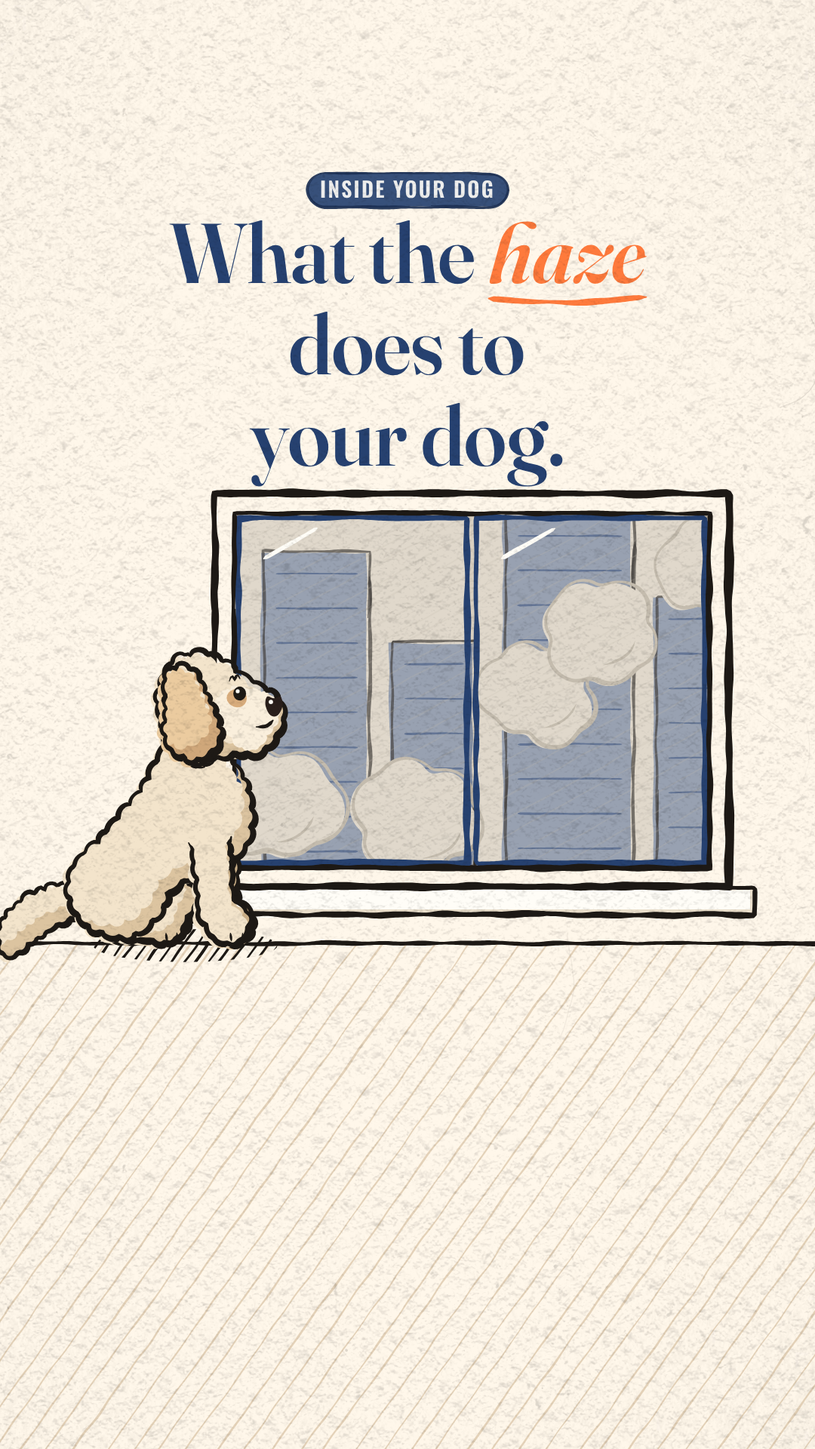
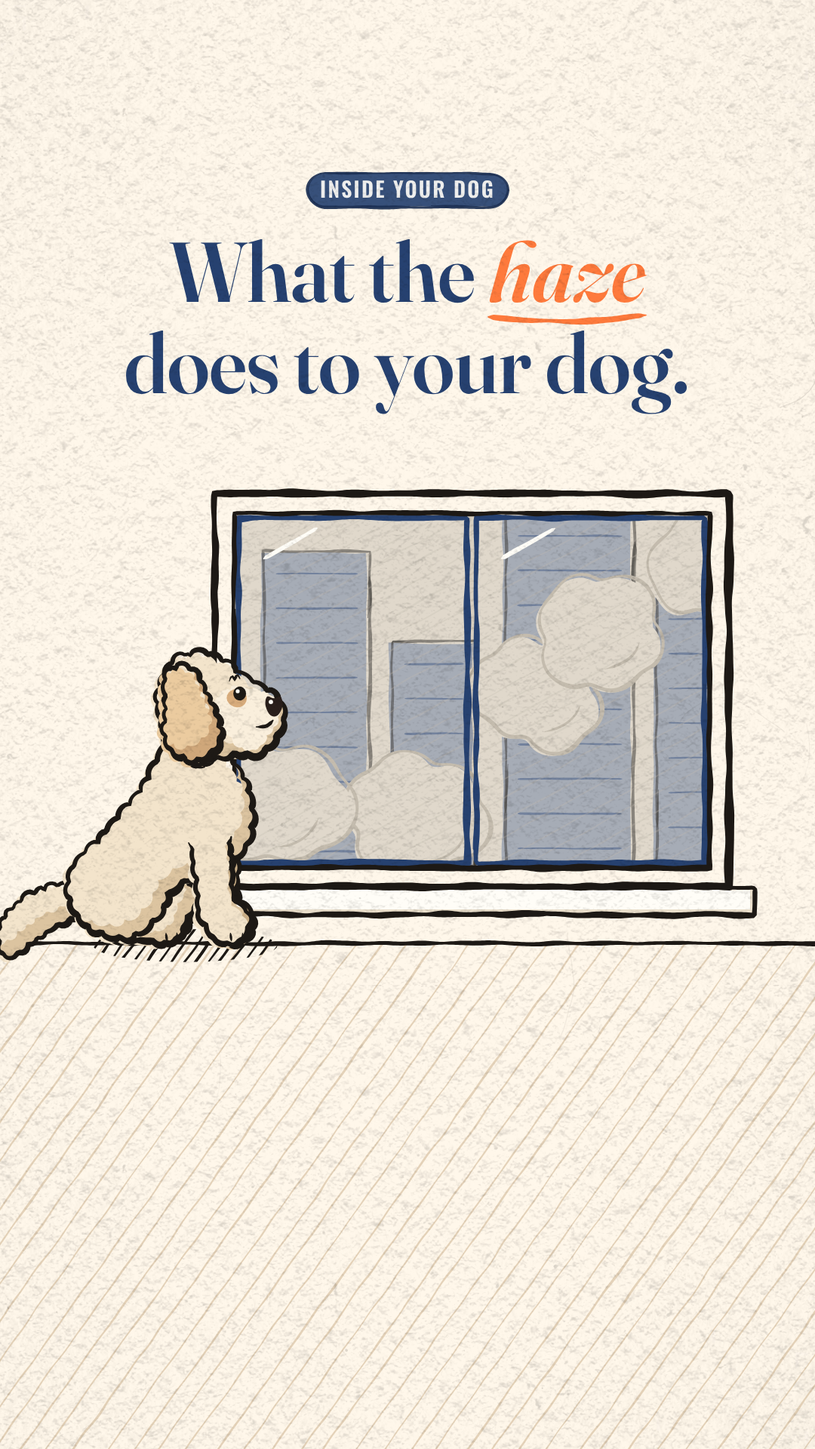
Haze film v2 delivered: render, independent review, one revision (sync, hero, pouch, safe zones), spec, log
Claude-Session: https://claude.ai/code/session_01E45RLzZSvX6312XgFghGSz

diff --git a/films/2026-10-16-haze-and-your-dog/js/scene.js b/films/2026-10-16-haze-and-your-dog/js/scene.js
@@ -42,7 +42,7 @@ const IW = 0.25;
 const IRISES = [[6.5, 360, 930], [14.0, 540, 1040]];
 const XEND = 50.0, XD = 0.2;    // a hard-edged paper wipe from the question card to the end card
 const HERO = MK('shut');        // the window slams shut (contact); impact frames follow
-const POUCH = 44.65;            // the pouch lands
+const POUCH = 44.80;            // the pouch lands (3 falling frames after the whip, so the drop is seen)
 const endOf = (i) => SEND[i] - (CUTS[i + 1] ?? 0) - 0.02; // last moment of a section before its cut
 
 // ------------------------------------------------------------------ exposure sheet: on 2s, fast action on 1s, holds on 3s
@@ -83,7 +83,7 @@ function sticker(c, txt, x, y, tq, t0, t1, v, o = {}) {
 }
 
 // the hook headline: frame 0 is the cover. "What the haze does to your dog."
-const HEAD = [[['What the ', 0], ['haze', 1]], [['does to', 0]], [['your dog.', 0]]];
+const HEAD = [[['What the ', 0], ['haze', 1]], [['does to your dog.', 0]]];
 function headline(c, sc, v) {
   if (sc <= 0) return;
   c.save(); c.translate(540, 470); c.scale(sc, sc); c.translate(-540, -470); c.textBaseline = 'alphabetic';
@@ -92,7 +92,7 @@ function headline(c, sc, v) {
   const widthOf = (L) => L.reduce((a, [s, it]) => { c.font = fontOf(it); return a + c.measureText(s).width; }, 0);
   const wmax = Math.max(...HEAD.map(widthOf)); if (wmax > 840) size = Math.floor(size * 840 / wmax);
   HEAD.forEach((L, li) => {
-    const y = 375 + li * size * 1.08, wl = widthOf(L); let x = 540 - wl / 2; c.textAlign = 'left';
+    const y = 400 + li * size * 1.08, wl = widthOf(L); let x = 540 - wl / 2; c.textAlign = 'left';
     for (const [s, it] of L) {
       c.font = fontOf(it); c.fillStyle = it ? PAL.orange : PAL.navy; const w = c.measureText(s).width;
       c.fillText(s, x + (li === 1 ? (v % 2 ? 1 : -1) : 0), y + (it ? (v % 2 ? 1 : 0) : 0));
@@ -121,9 +121,8 @@ function overlays(c, tn, tq, v) {
   if (tq < XEND) CA.pill(c, 'INSIDE YOUR DOG', 540, 252, { size: 28, fill: onNavy ? PAL.hi : PAL.navy, color: onNavy ? PAL.navy : PAL.hi, edge: PAL.navyDeep, alpha: 0.92, seed: 11, shadow: false }, v);
   TL.sections.forEach(([a, b], i) => {
     const txt = SECT[i]; if (!txt) return;
-    const t0 = a + 0.15, t1 = b - (CUTS[i + 1] ?? 0) - 0.02, navy = i === 2;
+    const t0 = a + 0.15, t1 = i === 6 ? warp(HERO - 0.3, 1, 0) : b - (CUTS[i + 1] ?? 0) - 0.02, navy = i === 2; // the slam owns the frame from there
     if (tn < t0 || tn >= t1) return;
-    if (i === 6 && toOld(tn) >= HERO - 0.3 && toOld(tn) < HERO + 0.6) return; // the slam owns the frame
     CA.pill(c, txt, 540, 330, { size: 40, fill: navy ? RAB : PAL.orange, color: navy ? PAL.navy : PAL.hi, scale: popK(tn, t0) * popOut(tn, t1), seed: 21, rot: -0.02 }, v);
   });
   headline(c, headlineScale(tq), v);
@@ -152,7 +151,7 @@ function popAt(c, x, y, sc, fn) { if (sc <= 0) return; c.save(); c.translate(x, 
 function shotWindow(c, t, f, D) {
   const v = bv(D), tq = D.fq / FPS;
   stage(c, v, tq, 0, 6.5, { dz: 0.07, cx: 560, cy: 960 });
-  const fog = 0.55 + 0.45 * E.io2(inv(0.5, 5.5, tq));
+  const fog = 0.8 + 0.2 * E.io2(inv(0.5, 5.5, tq));
   CA.windowOut(c, tq, v, fog);
   CA.windowFrame(c, v, 0);
   const turn = E.io2(inv(MK('very') - 0.3, MK('very') + 0.1, tq)); // she looks back at you on "very unhealthy"
@@ -184,22 +183,22 @@ function shotInside(c, t, f, D) {
       const u = Math.min(ph * 2.2, 1), x = lerp(-60, 180 + (k % 4) * 22, E.out2(u)), y = 570 + S.off * 0.8;
       CA.speck(c, x, y, 26, 900 + k, v); return;
     }
-    if (tq < t0) { const x = lerp(-60, 140, ph), y = 570 + S.off * 0.6; CA.speck(c, x, y, 7, 900 + k, v); return; }
+    if (tq < t0) { const x = lerp(-60, 200, ph), y = 565 + S.off * 0.4; CA.speck(c, x, y, 11, 900 + k, v); return; }
     // tiny ones rush down the airway on 1s, a smeared streak behind each, then scatter into a lung
     const u = (tq - t0) * 0.55 + ph * 0.6, along = u % 1.3;
     if (along < 1) {
-      const P = at(along * TT), x = P.x + P.nx * S.off * 0.6, y = P.y + P.ny * S.off * 0.6, L = 50;
+      const P = at(along * TT), x = P.x + P.nx * S.off * 0.6, y = P.y + P.ny * S.off * 0.6, L = 70;
       inkStroke(c, [[x - P.tx * L, y - P.ty * L], [x, y]], { seed: 940 + k + f, w: 6, t0: 20, t1: 4, min: 0.1, amp: 0.6, heavy: 0, color: PAL.ink });
-      CA.speck(c, x, y, 7, 900 + k, v);
+      CA.speck(c, x, y, 11, 900 + k, v);
     } else {
       const w = (along - 1) / 0.3, lx = 540 + S.side * (120 + 90 * hs(k, 2)), ly = 1000 + 140 * hs(k, 3);
-      CA.speck(c, lerp(540, lx, E.out2(w)), lerp(880, ly, E.out2(w)), 7, 900 + k, v);
+      CA.speck(c, lerp(540, lx, E.out2(w)), lerp(880, ly, E.out2(w)), 11, 900 + k, v);
     }
   });
   c.restore();
   // labels: clear of the airway, above y 1250
-  sticker(c, 'BIG BITS: STUCK IN THE NOSE', 740, 430, tq, MK('nose') - 0.05, MK('eyes') - 0.15, v, { size: 26, fill: PAL.hi, color: PAL.navy, rot: -0.03, seed: 4101 });
-  sticker(c, 'TINY BITS: DEEP IN THE LUNGS', 740, 520, tq, MK('lungs'), MK('eyes') - 0.15, v, { size: 26, rot: 0.03, seed: 4102 });
+  sticker(c, 'BIG BITS: STUCK IN THE NOSE', 640, 400, tq, MK('nose') - 0.05, MK('eyes') - 0.15, v, { size: 32, fill: PAL.hi, color: PAL.navy, rot: -0.03, seed: 4101 });
+  sticker(c, 'TINY BITS: DEEP IN THE LUNGS', 640, 470, tq, MK('lungs'), MK('eyes') - 0.15, v, { size: 32, rot: 0.03, seed: 4102 });
   if (tq >= MK('tiny') && tq < MK('nose') - 0.05) sticker(c, 'PM2.5', 760, 470, tq, MK('tiny'), MK('nose') - 0.05, v, { size: 46, rot: -0.04, seed: 4103 });
   sticker(c, 'EYES', 800, 440, tq, MK('eyes'), endOf(2), v, { size: 40, rot: -0.04, seed: 4104 });
   sticker(c, 'NOSE', 830, 540, tq, MK('nose2'), endOf(2), v, { size: 40, rot: 0.04, seed: 4105 });
@@ -234,7 +233,9 @@ function shotSigns(c, t, f, D) {
 function shotRisk(c, t, f, D) {
   const v = bv(D), tq = D.fq / FPS, end = endOf(4);
   stage(c, v, tq, 22.0, end, { dz: 0.06 });
-  drawMiya(c, pose('sit', { head: { pitch: -8, yaw: 30, roll: -6 }, face: { eyes: 'open', mouth: 'closed', brow: 0.2 } }), { x: 260, y: GROUND, s: 1.35, view: 30, v, seed: 3300, accent: ACC });
+  const look = ['flat', 'older', 'heart', 'most'].filter((m) => tq >= MK(m) - 0.05).length; // she turns to each card as it lands
+  const HP = [[-8, 30, -6], [-14, 50, 4], [-4, 60, -8], [-16, 45, 6], [-6, 70, 0]][look];
+  drawMiya(c, pose('sit', { head: { pitch: HP[0], yaw: HP[1], roll: HP[2] }, face: { eyes: 'open', mouth: 'closed', brow: look >= 4 ? -0.4 : 0.2 }, ears: { swing: D.id % 2 ? 4 : -4 } }), { x: 260, y: GROUND, s: 1.35, view: 30, v, seed: 3300, accent: ACC });
   c.restore();
   sticker(c, 'FLAT-FACED BREEDS', 700, 520, tq, MK('flat'), end, v, { size: 36, fill: PAL.hi, color: PAL.navy, rot: -0.04, seed: 4301 });
   sticker(c, 'OLDER DOGS', 740, 640, tq, MK('older'), end, v, { size: 36, fill: PAL.hi, color: PAL.navy, rot: 0.04, seed: 4302 });
@@ -262,9 +263,9 @@ function shotBig(c, t, f, D) {
   const after = D.fn >= FF(HERO), k0 = D.fn - FF(HERO);
   const shake = tq >= HERO && tq < HERO + 0.4 ? 9 * Math.exp(-(tq - HERO) / 0.12) : 0;
   drawPaper(c, W, H);
-  c.save(); cam(c, 540 + (hs(f, 1) - 0.5) * 2 * shake, 960 + (hs(f, 2) - 0.5) * 2 * shake, 1.0 + 0.05 * inv(31.0, end, tq) + (after ? 0.06 * E.out3(clamp((tq - HERO) / 0.3)) : 0));
+  c.save(); cam(c, 620 + (hs(f, 1) - 0.5) * 2 * shake, 960 + (hs(f, 2) - 0.5) * 2 * shake, 1.0 + 0.05 * inv(31.0, end, tq) + (after ? 0.06 * E.out3(clamp((tq - HERO) / 0.3)) : 0));
   floor(c, v);
-  CA.windowOut(c, tq + 20, v, after ? 1 - 0.3 * clamp((tq - HERO) / 1.5) : 1);
+  CA.windowOut(c, tq + 20, v, 1); // the haze outside doesn't change; the room clears
   // the slide: open until just before the word, then 2 frames on 1s, the middle one smeared
   let open = 1, smear = 1;
   if (k0 >= -2 && k0 < 0) { open = k0 === -2 ? 0.55 : 0.12; smear = k0 === -2 ? 2.4 : 1.4; } else if (after) open = 0;
@@ -272,25 +273,29 @@ function shotBig(c, t, f, D) {
   if (k0 >= 0 && k0 < 6) FX.speedLinesRadial(c, CA.WIN.x1 - 10, 915, 40, 160, 8, 3500 + D.fn, 6, 1, PAL.ink); // contact ticks at the frame edge
   // haze wisps drift in through the gap; after the slam they break up and are gone
   WISPS.forEach((S, k) => {
-    const ph = ((tq - 31) * 0.25 + S.d) % 1, x = lerp(860, 480, ph), y = S.y - 60 * ph;
+    const ph = ((tq - 31) * 0.25 + S.d) % 1, x = lerp(900, 120, ph), y = 800 + k * 70 + 40 * ph; // in through the gap, over Miya
     if (!after) CA.wisp(c, x, y, S.r * (0.7 + 0.3 * ph), 3510 + k * 7, v, 0);
     else { const st = 1 + Math.floor((tq - HERO) / 0.18); if (st < 4) CA.wisp(c, x, y, S.r, 3510 + k * 7, v, st); }
   });
+  // a flat hatched haze veil over the room: there while the window is open, stepping away on 3s after the slam
+  const veil = !after ? 0.34 : [0.34, 0.18, 0.07, 0][Math.min(3, Math.floor((tq - HERO) / 0.17))];
+  if (veil > 0) { c.save(); c.globalAlpha = veil; c.fillStyle = CA.HAZE; c.fillRect(-200, 0, W + 400, GROUND); G.hatch(c, [[-200, 0], [W + 200, 0], [W + 200, GROUND], [-200, GROUND]], { seed: 3540 + v, gap: 26, ang: -0.5, w: 2, amp: 1.2, color: CA.HAZE_SH, cx: 540, cy: 700 }); c.restore(); }
   const on = E.io2(inv(MK('aircon') - 0.1, MK('aircon') + 0.3, tq));
-  CA.aircon(c, 230, 520, 0.9, 3550, v, on, tq);
-  if (!after) drawMiya(c, pose('lie', { head: { pitch: -10, yaw: 30, roll: 0 }, face: { eyes: 'squint', mouth: 'closed', brow: -0.5 } }), { x: 240, y: GROUND, s: 1.3, view: 25, v, seed: 3560, accent: ACC });
-  else drawMiya(c, pose('wag', { tail: { a0: 92 + (D.id % 2 ? 24 : -24), curl: -32 } }), { x: 230, y: GROUND, s: 1.3, view: 25, v, seed: 3570, accent: ACC });
-  if (after && tq < HERO + 0.55) { const u = inv(HERO, HERO + 0.55, tq); FX.drawStarburst(c, CA.WIN.x1 - 30, 915, 200 * (0.6 + 0.4 * u), 3580 + f, 0.3, [RAB, PAL.hi, PAL.orange], { n: 12, w: 6 }); }
-  if (after && tq >= MK('purifier')) for (let i = 0; i < 3; i++) FX.drawTwinkle(c, [420, 520, 380][i], [600, 700, 820][i], 14 + 4 * Math.sin(tq * 4 + i), 3590 + i + v, { fill: i === 1 ? PAL.orange : PAL.hi });
+  CA.aircon(c, 300, 520, 0.9, 3550, v, on, tq);
+  if (!after) drawMiya(c, pose('lie', { head: { pitch: -10, yaw: 30, roll: 0 }, face: { eyes: 'squint', mouth: 'closed', brow: -0.5 } }), { x: 300, y: GROUND, s: 1.3, view: 25, v, seed: 3560, accent: ACC });
+  else drawMiya(c, pose('wag', { tail: { a0: 92 + (D.id % 2 ? 24 : -24), curl: -32 } }), { x: 300, y: GROUND, s: 1.3, view: 25, v, seed: 3570, accent: ACC });
+  if (after && tq < HERO + 0.55) { const u = inv(HERO, HERO + 0.55, tq); FX.drawStarburst(c, CA.WIN.x1 - 60, 915, 150 * (0.6 + 0.4 * u), 3580 + f, 0.3, [RAB, PAL.hi, PAL.orange], { n: 12, w: 6 }); }
+  if (after && tq >= MK('purifier')) for (let i = 0; i < 3; i++) FX.drawTwinkle(c, [480, 580, 440][i], [600, 700, 820][i], 14 + 4 * Math.sin(tq * 4 + i), 3590 + i + v, { fill: i === 1 ? PAL.orange : PAL.hi });
   c.restore();
-  sticker(c, 'KEEP THE HAZE OUT', 640, 560, tq, HERO + 0.4, end, v, { size: 46, rot: -0.04, seed: 4501 });
-  sticker(c, 'AIRCON OR PURIFIER ON', 640, 470, tq, MK('aircon'), end, v, { size: 32, fill: PAL.hi, color: PAL.navy, rot: 0.03, seed: 4502 });
+  sticker(c, 'KEEP THE HAZE OUT', 600, 440, tq, HERO + 0.4, end, v, { size: 46, rot: -0.04, seed: 4501 });
+  sticker(c, 'AIRCON OR PURIFIER ON', 620, 540, tq, MK('aircon'), end, v, { size: 32, fill: PAL.hi, color: PAL.navy, rot: 0.03, seed: 4502 });
 }
 // when to call the vet
 function shotVet(c, t, f, D) {
   const v = bv(D), tq = D.fq / FPS, end = endOf(7);
   stage(c, v, tq, 37.0, end, { dz: 0.06 });
-  drawMiya(c, pose('lie', { head: { pitch: -10, yaw: 30, roll: 0 }, face: { eyes: 'open', mouth: 'tongue', brow: -0.6 } }), { x: 250, y: GROUND, s: 1.3, view: 30, v, seed: 3600, accent: ACC });
+  drawMiya(c, pose('lie', { head: { pitch: -10 + (D.id % 2 ? 3 : 0), yaw: 30, roll: 0 }, face: { eyes: 'open', mouth: 'tongue', brow: -0.6 } }), { x: 250, y: GROUND, s: 1.3 * (1 + 0.012 * (D.id % 2)), view: 30, v, seed: 3600, accent: ACC });
+  for (let k = 0; k < 2; k++) { const u = ((tq - 37) * 3 + k * 0.5) % 1; c.save(); c.globalAlpha = 1 - u; inkStroke(c, [[440 + 40 * u, 1110 + k * 26], [480 + 60 * u, 1106 + k * 26]], { seed: 3610 + k + v, w: 5, t0: 3, t1: 3, min: 0.4, amp: 0.8, heavy: 0, color: PAL.navyLight }); c.restore(); } // fast breaths
   c.restore();
   sticker(c, 'STRUGGLING TO BREATHE?', 620, 560, tq, MK('struggling'), end, v, { size: 36, fill: PAL.hi, color: PAL.navy, rot: -0.04, seed: 4601 });
   sticker(c, 'CALL YOUR VET', 640, 720, tq, MK('callvet'), end, v, { size: 56, rot: -0.03, seed: 4602 });
@@ -316,12 +321,12 @@ function shotGame(c, t, f, D) {
 function shotPouch(c, t, f, D) {
   const v = bv(D), tq = D.fq / FPS;
   stage(c, v, tq, 44.5, 48.0, { dz: 0.1 });
-  CA.glow(c, 740, 1040, 280, RAB, 900, v, 0.3);
   const k = D.fn - FF(POUCH), TX = 740;
-  if (k >= -2) {
-    const y = k < 0 ? lerp(500, GROUND, (k + 2) / 2) : GROUND;
+  if (k >= 0) CA.glow(c, 740, 1040, 280, RAB, 900, v, 0.3);
+  if (k >= -3) { // falls in from off the top on 1s: two stretched in-betweens, then a squash on contact
+    const y = k < 0 ? [-260, 420, 980][k + 3] : GROUND;
     c.save(); c.translate(TX, y);
-    if (k === -1) c.scale(0.7, 2.2); else if (k >= 0 && k <= 1) c.scale(1.18, 0.84);
+    if (k === -2) c.scale(0.7, 2.4); else if (k === -1) c.scale(0.8, 1.6); else if (k >= 0 && k <= 1) c.scale(1.18, 0.84);
     c.translate(-TX, -y); CA.pouch(c, TX, y, 1, 910, v); c.restore();
     if (k >= 0 && k < 12) { const u = k / 12; for (const sd of [-1, 1]) for (let j = 0; j < 3; j++) { const P2 = circlePts(TX + sd * (170 + j * 30 + 70 * u), GROUND - 10 - j * 14 - 30 * u, (18 - 4 * j) * (1 - 0.6 * u), 14);
       c.save(); c.globalAlpha = 1 - u; fillShape(c, P2, PAL.hi, { seed: 920 + j, amp: 1 }); inkLoop(c, P2, { seed: 923 + j + v, w: 3, amp: 1 }); c.restore(); } }
@@ -411,7 +416,7 @@ export function render(t) {
   } else shotAt(t1)(c, t1, f, D);
   const hk = fn - FF(HERO);
   if (hk === 1 || hk === 2) { // impact: flat Rabbit + a cream star, on 1s; nothing else on it
-    FX.impactFrame(c, W, H, CA.WIN.x1 - 30, 915, hk === 1 ? RAB : PAL.navy, hk === 1 ? PAL.hi : RAB, 600 + hk, { lines: hk === 1, R: 560 });
+    FX.impactFrame(c, W, H, 840, 915, hk === 1 ? RAB : PAL.navy, hk === 1 ? PAL.hi : RAB, 600 + hk, { lines: hk === 1, R: 560 });
     drawTooth(c, W, H, v, DPR, 0.13); return;
   }
   overlays(c, tn, t1, v);

diff --git a/films/2026-10-16-haze-and-your-dog/js/timeline.js b/films/2026-10-16-haze-and-your-dog/js/timeline.js
@@ -1,2 +1,2 @@
 // GENERATED by vo.py: the film re-timed around the voiceover (seconds). warp = [new, old] anchors.
-export const TL = {"dur": 70.5417, "warp": [[0.0, 0.0], [3.0, 3.0], [7.2638, 6.25], [7.5138, 6.5], [7.7638, 6.75], [17.3758, 13.75], [17.6258, 14.0], [17.8758, 14.25], [28.3928, 21.875], [28.5178, 22.0], [28.6428, 22.125], [35.037, 25.875], [35.162, 26.0], [35.287, 26.125], [40.9262, 30.875], [41.0512, 31.0], [41.1762, 31.125], [43.6362, 33.2], [44.2362, 33.8], [47.4278, 36.875], [47.5528, 37.0], [47.6778, 37.125], [51.2806, 39.875], [51.4056, 40.0], [51.5306, 40.125], [58.9993, 44.375], [59.1243, 44.5], [59.2493, 44.625], [59.2643, 44.65], [59.5643, 44.95], [65.7037, 47.875], [65.8287, 48.0], [65.9537, 48.125], [68.5292, 50.0], [70.5292, 52.0]], "sections": [[0.0, 3.0], [3.0, 7.514], [7.514, 17.626], [17.626, 28.518], [28.518, 35.162], [35.162, 41.051], [41.051, 47.553], [47.553, 51.406], [51.406, 59.124], [59.124, 65.829], [65.829, 70.529]], "caps": [[3.08, 4.82, "The haze in Singapore just", [3.2, 3.34, 3.58, 3.84, 4.32]], [4.82, 7.244, "hit **very unhealthy** levels.", [4.86, 5.12, 5.52, 5.98]], [7.844, 9.701, "The worst of it is tiny.", [7.964, 8.104, 8.344, 8.544, 8.644, 8.804]], [9.701, 13.14, "They slip right past the nose, deep into the **lungs.**", [9.741, 9.921, 10.161, 10.421, 10.721, 10.901, 11.801, 11.861, 12.081, 12.221]], [13.14, 15.34, "So the haze shows up in their eyes,", [13.18, 13.32, 13.44, 13.68, 13.96, 14.18, 14.3, 14.42]], [15.34, 17.356, "their nose and their breathing.", [15.38, 15.46, 15.76, 16.08, 16.24]], [17.956, 21.811, "Watch for watery eyes, sneezing, or a runny nose.", [18.076, 18.356, 18.576, 18.996, 19.836, 20.536, 20.576, 20.676, 20.896]], [21.811, 23.355, "Coughing or gagging.", [21.851, 22.211, 22.451]], [23.355, 25.355, "Fast or noisy breathing.", [23.395, 23.795, 24.035, 24.415]], [25.355, 28.373, "Or a dog who's tired and off their food.", [25.395, 25.535, 25.675, 25.955, 26.255, 26.615, 26.915, 27.115, 27.295]], [29.063, 31.423, "Flat-faced breeds, older dogs,", [29.183, 29.383, 30.383, 30.623]], [31.423, 35.017, "and dogs with heart or lung problems feel it **most.**", [31.463, 31.563, 31.863, 32.103, 32.463, 32.743, 32.983, 33.503, 33.823, 33.963]], [35.367, 37.007, "So keep walks short.", [35.487, 35.667, 35.907, 36.227]], [37.007, 38.755, "Just a quick toilet trip.", [37.047, 37.187, 37.367, 37.527, 37.847]], [38.755, 40.906, "And keep the water bowl full.", [38.795, 38.915, 39.095, 39.255, 39.515, 39.775]], [41.256, 43.696, "Most of all, keep the haze out.", [41.376, 41.616, 41.756, 42.216, 42.336, 42.516, 42.696]], [43.696, 47.408, "Shut the windows, and run the aircon or a purifier.", [43.736, 43.896, 44.056, 44.416, 44.896, 45.076, 45.346, 45.616, 45.956, 46.056]], [47.758, 49.318, "Struggling to breathe?", [47.878, 48.358, 48.518]], [49.318, 51.261, "**Call your vet** straight away.", [49.358, 49.518, 49.658, 49.858, 50.158]], [51.611, 53.431, "Stuck inside all day?", [51.731, 52.031, 52.271, 52.751]], [53.431, 56.291, "Hide tiny bits of treat around the flat.", [53.471, 53.751, 54.151, 54.471, 54.631, 54.911, 55.191, 55.351]], [56.291, 58.979, "Sniffing games keep their brain busy.", [56.331, 56.751, 57.031, 57.291, 57.531, 57.831]], [59.329, 63.189, "Our single-ingredient treats break into tiny pieces.", [59.449, 59.899, 60.349, 60.929, 61.209, 61.449, 61.789]], [63.189, 65.684, "**Nothing added, nothing hidden.**", [63.229, 63.489, 64.349, 64.549]]], "marks": {"very": 5.12, "tiny": 8.804, "nose": 10.901, "lungs": 12.221, "eyes": 14.42, "nose2": 15.46, "breathing": 16.24, "watery": 18.576, "sneezing": 19.836, "runny": 20.676, "coughing": 21.851, "fast": 23.395, "tired": 26.255, "flat": 29.183, "older": 30.383, "heart": 32.103, "most": 33.963, "walks": 36.227, "toilet": 37.527, "water": 39.255, "shut": 43.736, "aircon": 45.346, "purifier": 46.056, "struggling": 47.878, "callvet": 49.358, "hide": 53.471, "sniffing": 56.331, "brain": 57.531, "pieces": 61.789, "nothing": 63.229, "tell": 67.214}, "voice": "kokoro"};
+export const TL = {"dur": 70.5417, "warp": [[0.0, 0.0], [3.0, 3.0], [7.2638, 6.25], [7.5138, 6.5], [7.7638, 6.75], [17.3758, 13.75], [17.6258, 14.0], [17.8758, 14.25], [28.3928, 21.875], [28.5178, 22.0], [28.6428, 22.125], [35.037, 25.875], [35.162, 26.0], [35.287, 26.125], [40.9262, 30.875], [41.0512, 31.0], [41.1762, 31.125], [43.6362, 33.2], [44.2362, 33.8], [47.4278, 36.875], [47.5528, 37.0], [47.6778, 37.125], [51.2806, 39.875], [51.4056, 40.0], [51.5306, 40.125], [58.9993, 44.375], [59.1243, 44.5], [59.2493, 44.625], [59.2643, 44.65], [59.5643, 44.95], [65.7037, 47.875], [65.8287, 48.0], [65.9537, 48.125], [68.5292, 50.0], [70.5292, 52.0]], "sections": [[0.0, 3.0], [3.0, 7.514], [7.514, 17.626], [17.626, 28.518], [28.518, 35.162], [35.162, 41.051], [41.051, 47.553], [47.553, 51.406], [51.406, 59.124], [59.124, 65.829], [65.829, 70.529]], "caps": [[3.08, 7.244, "The haze in Singapore just hit **very unhealthy** levels.", [3.2, 3.34, 3.58, 3.84, 4.32, 4.86, 5.12, 5.52, 5.98]], [7.844, 9.701, "The worst of it is tiny.", [7.964, 8.104, 8.344, 8.544, 8.644, 8.804]], [9.701, 13.14, "They slip right past the nose, deep into the **lungs.**", [9.741, 9.921, 10.161, 10.421, 10.721, 10.901, 11.801, 11.861, 12.081, 12.221]], [13.14, 15.34, "So the haze shows up in their eyes,", [13.18, 13.32, 13.44, 13.68, 13.96, 14.18, 14.3, 14.42]], [15.34, 17.356, "their nose and their breathing.", [15.38, 15.46, 15.76, 16.08, 16.24]], [17.956, 21.811, "Watch for watery eyes, sneezing, or a runny nose.", [18.076, 18.356, 18.576, 18.996, 19.836, 20.536, 20.576, 20.676, 20.896]], [21.811, 23.355, "Coughing or gagging.", [21.851, 22.211, 22.451]], [23.355, 25.355, "Fast or noisy breathing.", [23.395, 23.795, 24.035, 24.415]], [25.355, 28.373, "Or a dog who's tired and off their food.", [25.395, 25.535, 25.675, 25.955, 26.255, 26.615, 26.915, 27.115, 27.295]], [29.063, 31.423, "Flat-faced breeds, older dogs,", [29.183, 29.383, 30.383, 30.623]], [31.423, 35.017, "and dogs with heart or lung problems feel it **most.**", [31.463, 31.563, 31.863, 32.103, 32.463, 32.743, 32.983, 33.503, 33.823, 33.963]], [35.367, 37.007, "So keep walks short.", [35.487, 35.667, 35.907, 36.227]], [37.007, 38.755, "Just a quick toilet trip.", [37.047, 37.187, 37.367, 37.527, 37.847]], [38.755, 40.906, "And keep the water bowl full.", [38.795, 38.915, 39.095, 39.255, 39.515, 39.775]], [41.256, 43.696, "Most of all, keep the haze out.", [41.376, 41.616, 41.756, 42.216, 42.336, 42.516, 42.696]], [43.696, 47.408, "Shut the windows, and run the aircon or a purifier.", [43.736, 43.896, 44.056, 44.416, 44.896, 45.076, 45.346, 45.616, 45.956, 46.056]], [47.758, 49.318, "Struggling to breathe?", [47.878, 48.358, 48.518]], [49.318, 51.261, "**Call your vet** straight away.", [49.358, 49.518, 49.658, 49.858, 50.158]], [51.611, 53.431, "Stuck inside all day?", [51.731, 52.031, 52.271, 52.751]], [53.431, 56.291, "Hide tiny bits of treat around the flat.", [53.471, 53.751, 54.151, 54.471, 54.631, 54.911, 55.191, 55.351]], [56.291, 58.979, "Sniffing games keep their brain busy.", [56.331, 56.751, 57.031, 57.291, 57.531, 57.831]], [59.329, 63.189, "Our single-ingredient treats break into tiny pieces.", [59.449, 59.899, 60.349, 60.929, 61.209, 61.449, 61.789]], [63.189, 65.684, "**Nothing added, nothing hidden.**", [63.229, 63.489, 64.349, 64.549]]], "marks": {"very": 5.12, "tiny": 8.804, "nose": 10.901, "lungs": 12.221, "eyes": 14.42, "nose2": 15.46, "breathing": 16.24, "watery": 18.576, "sneezing": 19.836, "runny": 20.676, "coughing": 21.851, "fast": 23.395, "tired": 26.255, "flat": 29.183, "older": 30.383, "heart": 32.103, "most": 33.963, "walks": 36.227, "toilet": 37.527, "water": 39.255, "shut": 43.736, "aircon": 45.346, "purifier": 46.056, "struggling": 47.878, "callvet": 49.358, "hide": 53.471, "sniffing": 56.331, "brain": 57.531, "pieces": 61.789, "nothing": 63.229, "tell": 67.214}, "voice": "kokoro"};

diff --git a/films/2026-10-16-haze-and-your-dog/js/cast.js b/films/2026-10-16-haze-and-your-dog/js/cast.js
@@ -197,7 +197,9 @@ export function wisp(c, x, y, r, seed, v, stage = 0) { FX.smokePuff(c, x, y, r, 
 
 // inside: the airway, from the nose (upper left) down the windpipe into two lungs (Rabbit accent as the tissue colour)
 export function airway(c, v, glowLung = 0) {
-  const tube = G.spline([[60, 560], [250, 570], [420, 610], [520, 690], [540, 780], [540, 860]], false, 6);
+  // the nose tip on the left (ink, a cream nostril) so the airway reads as starting at her nose
+  fillShape(c, circlePts(112, 560, 62, 18), PAL.ink, { seed: 690 + v, amp: 1.4 });
+  const tube = G.spline([[150, 560], [250, 570], [420, 610], [520, 690], [540, 780], [540, 860]], false, 6);
   inkStroke(c, tube, { seed: 700 + v, w: 118, t0: 1, t1: 1, min: 1, amp: 0.3, heavy: 0, color: PAL.ink, dense: true });
   inkStroke(c, tube, { seed: 701 + v, w: 100, t0: 1, t1: 1, min: 1, amp: 0.3, heavy: 0, color: PAL.hi, dense: true });
   // nose filter hairs near the entrance
@@ -217,7 +219,7 @@ export function airway(c, v, glowLung = 0) {
 // a speck of haze: big ones are smoke puffs, tiny ones are ink dots
 export function speck(c, x, y, r, seed, v) {
   if (r > 12) { FX.smokePuff(c, x, y, r, seed + v, { fill: HAZE, ink: PAL.ink, w: 3 }); return; }
-  fillShape(c, circlePts(x, y, r, 10), PAL.ink, { seed: seed + v, amp: 0.4 });
+  const P = circlePts(x, y, r, 10); fillShape(c, P, HAZE_SH, { seed: seed + v, amp: 0.6 }); inkLoop(c, P, { seed: seed + 1 + v, w: 3, amp: 0.6 }); // a tiny haze speck, not a pin
 }
 // the aircon unit high on the wall, blowing clean air (cel lines) when on
 export function aircon(c, x, y, s, seed, v, on = 0, tq = 0) {

diff --git a/films/2026-10-16-haze-and-your-dog/audio.py b/films/2026-10-16-haze-and-your-dog/audio.py
@@ -27,7 +27,8 @@ def new(t):
     for (n0, o0), (n1, o1) in zip(A, A[1:]):
         if t <= o1: return n0 + (n1 - n0) * (t - o0) / ((o1 - o0) or 1)
     return A[-1][0]
-HERO = new(33.1)                        # the window slams shut: the music lands home here
+FR = lambda t: round(t * 24) / 24      # snap to the film frame the picture keys on
+HERO = FR(MK['shut'])                   # the window slams shut (scene.js HERO = MK('shut'), contact frame): the music lands home here
 RESOLVE = HERO
 NB = max(4, round(RESOLVE / 2.6))       # whole bars of 4/4 up to the resolve, kept near 92 bpm
 BAR = RESOLVE / NB
@@ -50,15 +51,15 @@ harp = lambda note, at, gain=-13: S(HARP.play(note, 1.2, 0.4, release=0.6).loud(
 
 # whips and irises (film time, each whoosh peaks on its cut)
 for b in (22.0, 26.0, 31.0, 37.0, 40.0, 44.5, 48.0):
-    SF(sfx.whoosh(0.45, 'air', peak=0.5), at=new(b) - 0.225, gain=-8)
+    SF(sfx.whoosh(0.45, 'air', peak=0.5), at=new(b), gain=-8)    # mgaudio puts the peak (sync point) on `at`
 for b in (6.5, 14.0):
-    SF(sfx.whoosh(0.6, 'swoosh', peak=0.5), at=new(b) - 0.3, gain=-9)
+    SF(sfx.whoosh(0.6, 'swoosh', peak=0.5), at=new(b), gain=-9)
 # hook + news: a soft paper rustle (her tail), stickers on "very"
 S(sfx.paper('rustle', 0.4, seed=1), at=0.2, gain=-15)
 SF(sfx.pop('soft', 1.0), at=MK['very'] - 0.05, gain=-11)
 SF(sfx.pop('soft', 1.1), at=MK['very'] + 0.2, gain=-13)
 # inside: an airy rush as the tiny specks pour down the airway, a harp on "lungs", pops for the labels
-SF(sfx.whoosh(1.4, 'air', peak=0.6), at=MK['tiny'] - 0.2, gain=-14)
+SF(sfx.whoosh(1.4, 'air', peak=0.6), at=MK['tiny'] + 0.3, gain=-14)
 for w in ('nose', 'lungs', 'eyes', 'nose2', 'breathing'): SF(sfx.pop('soft', 1.0), at=MK[w] - 0.03, gain=-13)
 SF(HARP.play('D6', 1.2, 0.4, release=0.6).loud(-18), at=MK['lungs'], gain=-15 + SFX_LIFT)
 # signs, risk, tips: a pop on each sticker; a soft breath-puff on "sneezing"
@@ -68,17 +69,17 @@ SF(sfx.whoosh(0.25, 'air', peak=0.3), at=MK['sneezing'], gain=-15)
 SF(sfx.pop('soft', 0.85), at=MK['most'] - 0.03, gain=-10)
 SF(sfx.drip(1.0), at=MK['water'] + 0.05, gain=-14)
 # the big one (hero): the pane slides, one soft cinematic impact on the slam, harp up; the aircon starts (an air hum)
-SF(sfx.whoosh(0.3, 'swish', peak=0.8), at=HERO - 0.24, gain=-8)
-S(sfx.impact('soft', size=0.7), at=33.1, gain=-5)
-S(sfx.click('wood'), at=33.1, gain=-10)
-for j, x in enumerate(['G5', 'B5', 'D6', 'G6']): S(HARP.play(x, 1.2, 0.4, release=0.6).loud(-18), at=33.18 + 0.09 * j, gain=-12 + SFX_LIFT)
+SF(sfx.whoosh(0.3, 'swish', peak=0.8), at=HERO - 1 / 24, gain=-8)
+SF(sfx.impact('soft', size=0.7), at=HERO, gain=-5)
+SF(sfx.click('wood'), at=HERO, gain=-10)
+for j, x in enumerate(['G5', 'B5', 'D6', 'G6']): SF(HARP.play(x, 1.2, 0.4, release=0.6).loud(-18), at=HERO + 0.08 + 0.09 * j, gain=-12 + SFX_LIFT)
 SF(sfx.whoosh(2.2, 'air', peak=0.2), at=MK['aircon'] - 0.1, gain=-19)
 SF(sfx.pop('soft', 1.0), at=MK['aircon'] - 0.03, gain=-13)
 SF(sfx.pop('soft', 0.9), at=MK['callvet'] - 0.03, gain=-10)
 # stuck inside: paws on the floor as she sniffs from bit to bit
 for k in range(8): SF(sfx.click('soft'), at=MK['sniffing'] - 0.3 + k * 0.2, gain=-18 - (k % 2))
 # the pouch lands: a soft thud, then a twinkle on "Nothing"
-S(sfx.impact('soft', size=0.3), at=44.65, gain=-10)
+SF(sfx.impact('soft', size=0.3), at=FR(new(44.80)), gain=-10)   # scene.js POUCH = 44.80 (contact frame)
 SF(HARP.play('B5', 1.2, 0.4, release=0.6).loud(-18), at=MK['nothing'], gain=-15 + SFX_LIFT)
 # question card, then the wipe to the end card
 S(sfx.paper('slide', 0.4), at=48.05, gain=-11)

diff --git a/films/2026-10-16-haze-and-your-dog/vo.py b/films/2026-10-16-haze-and-your-dog/vo.py
@@ -131,7 +131,7 @@ def align(shown, heard):
     return on, off, len(known)
 
 
-def cards(words, most=52):
+def cards(words, most=56):
     """One sentence a card; a sentence over `most` characters splits at the comma nearest its middle."""
     sents, cur = [], []
     for i, w in enumerate(words):

diff --git a/films/2026-10-16-haze-and-your-dog/PRODUCTION.md b/films/2026-10-16-haze-and-your-dog/PRODUCTION.md
@@ -5,7 +5,33 @@ Series: Inside Your Dog · accent Rabbit (`#9BA88D`, treats) · 70.5 s (voice-fi
       related that's trending right now"; replaces the cut-off auto-pick of ★1 "Where your dog scratches")
 - [x] Gate 2: script: routine, standing approval (owner 2026-10-13), overnight veto
 - [x] Gate 3: key frames: routine, standing approval (owner 2026-10-13), overnight veto. Boards `review/…-keyframes-{a,b,c,d}.png` sent 2026-10-16 night.
-- [ ] Gate 4: rendered → reviewed (rubric) → revised once → shown (08:28 run)
+- [x] Gate 4: rendered → reviewed (rubric) → revised once → shown (2026-10-17 08:28 run, standing approval; no owner notes overnight)
+  - Files (local, gitignored): `review/2026-10-16-haze-and-your-dog-v2.mp4` (viewing copy, 28.3 MB),
+    `review/…-v2-soundtrack.wav`, `review/…-v2-voiceover.wav`; master `out/…-v2.mp4`.
+  - Spec v2: 70.54 s (1693 frames), 1080×1920, 24 fps, AAC 48 kHz stereo, −14.0 LUFS, TP −2.7 dBTP (master and viewing
+    copy), stems: voice −22.0 / music −34.0 (12 LU under) / foley −34.5 LUFS, no black frames, fonts loaded.
+  - Review v1 (independent subagent, rubric step 1): style 7, concept 5, motion 6, design 6, finish 7, sound 4,
+    technical 7, story 6.
+  - Revision (critical + high, nothing the owner saw on the boards changed in content, order or copy):
+    - C1 hero sync: audio.py keyed the slam to the old 33.1 s; now `HERO = FR(MK['shut'])`, the contact frame 1050.
+      Impact, click, harp run and music resolve land on it (were 6 frames early).
+    - C2 whooshes: mgaudio already puts a whoosh's peak on `at`; removed the extra −half-duration offset (were 5–7
+      frames early and silent on the cut).
+    - H1 pouch: lands at 44.80 (anim) so its 3-frame fall from off the top (two stretched in-betweens, squash) shows
+      after the whip; the glow appears only on contact; thud moved with it.
+    - H2 hero before/after: haze wisps now drift into the room over Miya and a hatched haze veil fills the room while
+      the window is open, stepping away on 3s after the slam.
+    - H3 safe zone: hero camera shifted left (centre x 620), burst radius 150 at the pane edge, impact frame centre 840.
+    - H4 THE BIG ONE pill pops out once before the slam (no vanish / re-pop); KEEP THE HAZE OUT / AIRCON stickers re-stacked.
+    - H5 caption: "The haze in Singapore just hit very unhealthy levels." is one two-line card (vo.py `cards(most=56)`,
+      timeline merged by hand: the voice was not re-generated).
+    - H6 airway: a nose tip at the tube entrance, tiny bits drawn as haze specks (r 11, outlined, 70 px streaks), labels 32 px.
+    - H7 Miya never frozen: she turns to each WHO FEELS IT MOST card; breathes hard (breath dashes, chest on 2s) at the vet beat.
+    - H8 cover: headline on two lines ("What the haze / does to your dog."), the city reads as haze from frame 0.
+  - Still weak / not done (nice-to-have or needs the owner): no "why" for the at-risk groups, short walks or water (new
+    VO lines); hero at 62 % of the runtime (playbook asks 70–85 %); "busy brain, tired dog" callout shares the frame
+    with the caption; glow discs (bible says no glow); one card at 3.64 words/s (13.1 s); Whisper wasn't available, so
+    captions = voice wasn't machine-checked this morning; Kokoro voice (no ElevenLabs key).
 
 Hook formula: "Here's what X does to your dog." (as "What the haze does to your dog.", 7 words)
 Why it should travel: it's the news this week in Singapore, every dog owner here is wondering the same thing, and the

diff --git a/content/LOG.md b/content/LOG.md
@@ -5,7 +5,7 @@ it starts a film; the morning run fills in the result. Next up (2026-10-17 night
 
 | Date | Series | Idea | Film folder | Status | Hook formula | Length | Views | Avg watch % | Shares | Saves | Notes |
 |---|---|---|---|---|---|---|---|---|---|---|---|
-| 2026-10-16 | Inside Your Dog | Owner's request: What the haze does to your dog (PSI 200+ this week) | `films/2026-10-16-haze-and-your-dog` | key frames sent | "Here's what X does to your dog." ("What the haze does to your dog.") | 70.5 s | | | | | Owner asked for a haze film live at ~22:55 (after the cut-off; replaces the auto-pick of ★1 Where your dog scratches). Voice: local Kokoro (no ElevenLabs key). No new Miya poses. |
+| 2026-10-16 | Inside Your Dog | Owner's request: What the haze does to your dog (PSI 200+ this week) | `films/2026-10-16-haze-and-your-dog` | delivered v2 | "Here's what X does to your dog." ("What the haze does to your dog.") | 70.54 s | | | | | Owner asked for a haze film live at ~22:55 (after the cut-off; replaces the auto-pick of ★1 Where your dog scratches). Voice: local Kokoro (no ElevenLabs key). No new Miya poses. Rendered 2026-10-17 08:28. Review v1: style 7, concept 5, motion 6, design 6, finish 7, sound 4, technical 7, story 6. v2: hero and whoosh sync fixed (were 5–7 frames early), pouch fall visible, haze in the room before the slam, safe-zone and caption fixes. |
 | 2026-10-15 | Dog Decoded | D30 5 ways your dog says "I love you" | `films/2026-10-15-five-ways-i-love-you` | delivered v2 | "4 signs your dog [trusts you]." (countdown 5 → 1) | 43.67 s | | | | | Auto-picked ★1 at the 22:30 cut-off. New Miya poses: lean, carry, lookBack, brow raise (face.lift). Voice: ElevenLabs Jessica (owner supplied the key for this session; re-voiced and re-timed, captions synced). Rendered the same night at the owner's request ("render now"); the 08:28 run has nothing to render. Review v1: style 7, concept 6, motion 6, design 7, finish 6, sound 7, technical 8. |
 | 2026-10-14 | Inside Your Dog | B6 The poop chart (1–7 score) | `films/2026-10-14-the-poop-chart` | delivered v5 | "Here's what your dog's X actually means." | 77.5 s | | | | | Auto-picked ★1 at the 22:30 cut-off. New Miya poses: squat, lookDown. Voice: local Kokoro (no ElevenLabs key in either session). v2: voice slowed so every caption gets 1.5 s (49.5 → 54.25 s), one-frame moves fixed under the time warp, end wipe, safe-zone fixes. Review v1: style 7, concept 6, motion 5, design 7, finish 7, sound 6, technical 6. v3: owner supplied an ElevenLabs key; voice re-done with Jessica at 0.9 speed (56.2 s), captions re-cut and line-balanced, sync checked. v5: owner asked for a story that explains every score; script v2 (water and time in the gut, causes for each score, 4 vs 5), hook "Here's what your dog's poop actually means.", rebuilt, reviewed (v4: style 7, concept 6, motion 5, design 6, finish 7, sound 7, technical 8, story 6), revised once. |
 | 2026-10-13 | Dog Decoded | D1 Where your dog sleeps (six spots) | `films/2026-10-13-where-your-dog-sleeps` | delivered v5 | "Where your dog [sleeps] says a lot." | 44.5 s | | | | | Owner's pick ★1. New Miya poses: sleep, curl. Loops to frame 0. v3: owner asked for voiceover + music (uke, pizz, glock). v4: voice re-done with ElevenLabs (Jessica, Multilingual v2). v5: rewritten voice first (spoken script, captions = voice), re-timed to 44.5 s. |
